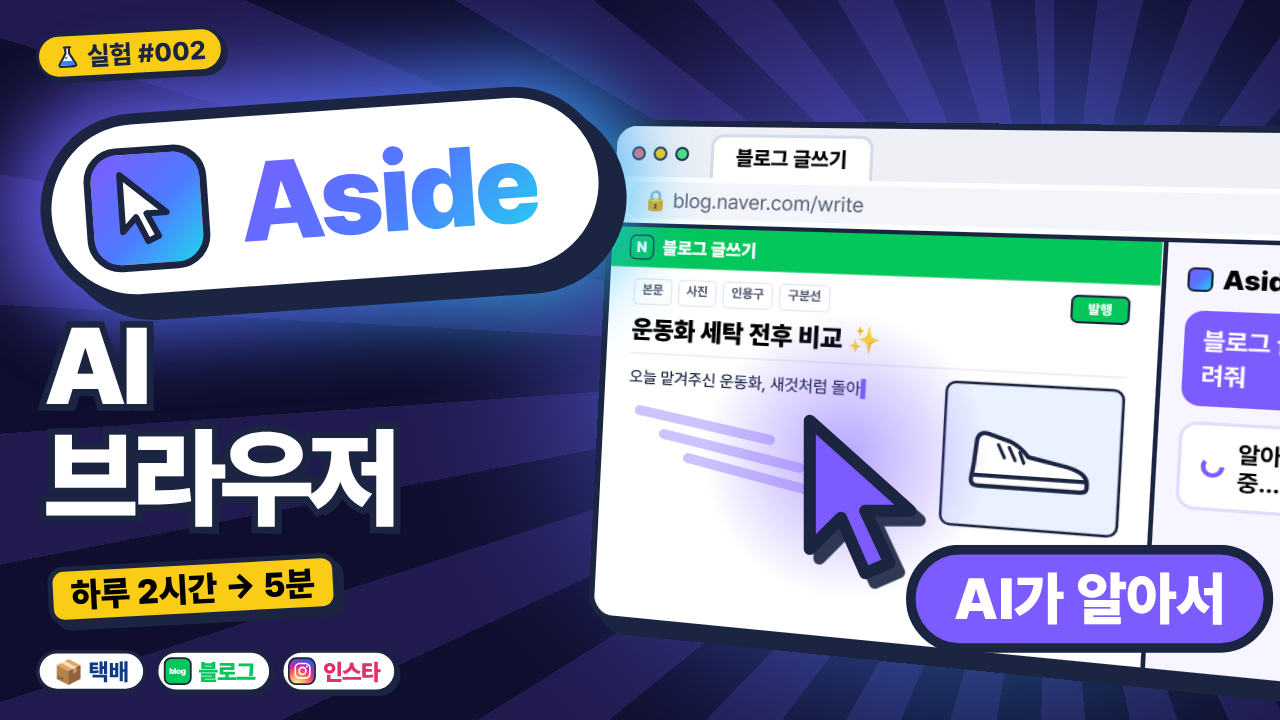
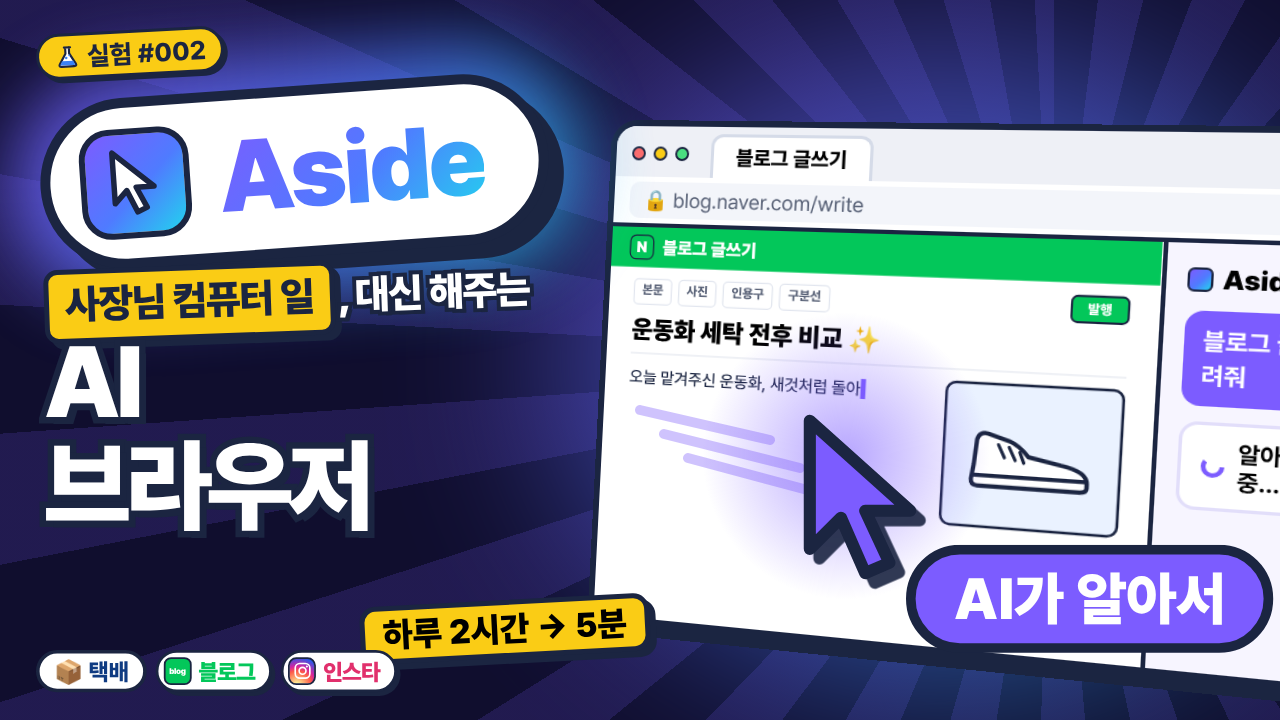
Ep002 thumbnail v2: add owner-benefit line
Claude-Session: https://claude.ai/code/session_01SVT5fyoZvXGm5ZZGhqmtrr

Changed region(s): [[0.0, 0.0306, 0.5312, 0.7333], [0.0312, 0.7639, 0.5312, 0.9167]]

diff --git a/src/episodes/ep002/Thumb.tsx b/src/episodes/ep002/Thumb.tsx
@@ -95,13 +95,16 @@ export const Ep002ThumbV2A: React.FC = () => (
     </svg>
     <AiCursor x={700} y={480} scale={2.2} label="AI가 알아서" />
     {/* 주인공: 어사이드 로고 */}
-    <div style={{ position: "absolute", left: 0, right: 0, top: 70, display: "flex", justifyContent: "center" }}>
+    <div style={{ position: "absolute", left: 0, right: 0, top: 36, display: "flex", justifyContent: "center" }}>
       <div style={{ position: "relative", transform: "rotate(-3deg)" }}>
         <div style={{ position: "absolute", inset: -40, background: ASIDE_GRADIENT, filter: "blur(40px)", opacity: 0.8, borderRadius: 999 }} />
-        <AsideBadge size={150} style={{ position: "relative" }} />
+        <AsideBadge size={116} style={{ position: "relative" }} />
       </div>
     </div>
-    <div style={{ position: "absolute", left: 0, right: 0, top: 300, textAlign: "center", fontWeight: 900, fontSize: 112, letterSpacing: "-0.05em", color: "#fff", ...outline(14), textShadow: `8px 8px 0 ${color.ink}` }}>
+    <div style={{ position: "absolute", left: 0, right: 0, top: 226, textAlign: "center", fontWeight: 900, fontSize: 50, letterSpacing: "-0.03em", color: "#fff", ...outline(9), textShadow: `5px 5px 0 ${color.ink}` }}>
+      <span style={{ background: color.accent, color: color.ink, border: `5px solid ${color.ink}`, borderRadius: 14, padding: "0 16px 4px", boxShadow: ui.shadow(6), display: "inline-block", WebkitTextStroke: "0px transparent", textShadow: "none", marginRight: 4 }}>사장님 컴퓨터 일</span>, 대신 해주는
+    </div>
+    <div style={{ position: "absolute", left: 0, right: 0, top: 308, textAlign: "center", fontWeight: 900, fontSize: 108, letterSpacing: "-0.05em", color: "#fff", ...outline(14), textShadow: `8px 8px 0 ${color.ink}` }}>
       AI 브라우저
     </div>
     {/* 보조 정보 */}
@@ -129,18 +132,21 @@ export const Ep002ThumbV2B: React.FC = () => (
     </svg>
     <AiCursor x={810} y={420} scale={2.4} label="AI가 알아서" />
     {/* 왼쪽: 주인공 로고 + 문구 */}
-    <div style={{ position: "absolute", left: 40, top: 100, transform: "rotate(-4deg)" }}>
+    <div style={{ position: "absolute", left: 40, top: 86, transform: "rotate(-4deg)" }}>
       <div style={{ position: "relative" }}>
         <div style={{ position: "absolute", inset: -30, background: ASIDE_GRADIENT, filter: "blur(36px)", opacity: 0.8, borderRadius: 999 }} />
-        <AsideBadge size={112} style={{ position: "relative" }} />
+        <AsideBadge size={100} style={{ position: "relative" }} />
       </div>
     </div>
-    <div style={{ position: "absolute", left: 44, top: 310, fontWeight: 900, fontSize: 108, lineHeight: 1.04, letterSpacing: "-0.05em", color: "#fff", ...outline(13), textShadow: `7px 7px 0 ${color.ink}` }}>
+    <div style={{ position: "absolute", left: 44, top: 262, fontWeight: 900, fontSize: 40, lineHeight: 1.5, letterSpacing: "-0.03em", color: "#fff", ...outline(8), textShadow: `4px 4px 0 ${color.ink}`, transform: "rotate(-2deg)" }}>
+      <span style={{ background: color.accent, color: color.ink, border: `5px solid ${color.ink}`, borderRadius: 14, padding: "0 16px 4px", boxShadow: ui.shadow(6), display: "inline-block", WebkitTextStroke: "0px transparent", textShadow: "none", marginRight: 4 }}>사장님 컴퓨터 일</span>, 대신 해주는
+    </div>
+    <div style={{ position: "absolute", left: 44, top: 330, fontWeight: 900, fontSize: 100, lineHeight: 1.04, letterSpacing: "-0.05em", color: "#fff", ...outline(13), textShadow: `7px 7px 0 ${color.ink}` }}>
       AI<br />브라우저
     </div>
     {/* 보조 */}
     <div style={{ position: "absolute", left: 36, top: 30, transform: "rotate(-3deg)" }}><ExperimentTag no={2} size={26} /></div>
-    <div style={{ position: "absolute", left: 48, top: 560, background: color.accent, border: `5px solid ${color.ink}`, borderRadius: 16, padding: "4px 18px", fontWeight: 900, fontSize: 34, transform: "rotate(-3deg)", boxShadow: ui.shadow(6) }}>하루 2시간 → 5분</div>
+    <div style={{ position: "absolute", left: 360, top: 600, background: color.accent, border: `5px solid ${color.ink}`, borderRadius: 16, padding: "4px 18px", fontWeight: 900, fontSize: 34, transform: "rotate(-3deg)", boxShadow: ui.shadow(6) }}>하루 2시간 → 5분</div>
     <SmallChips x={36} y={650} />
   </AbsoluteFill>
 );
